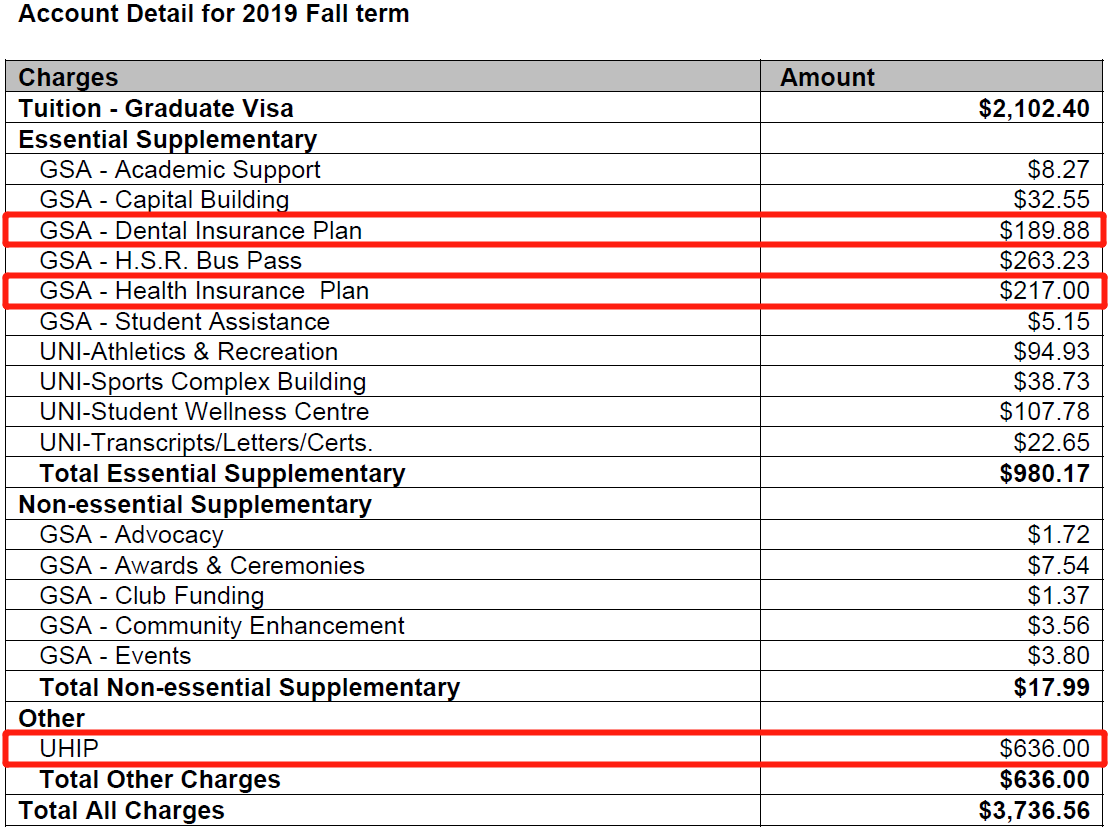
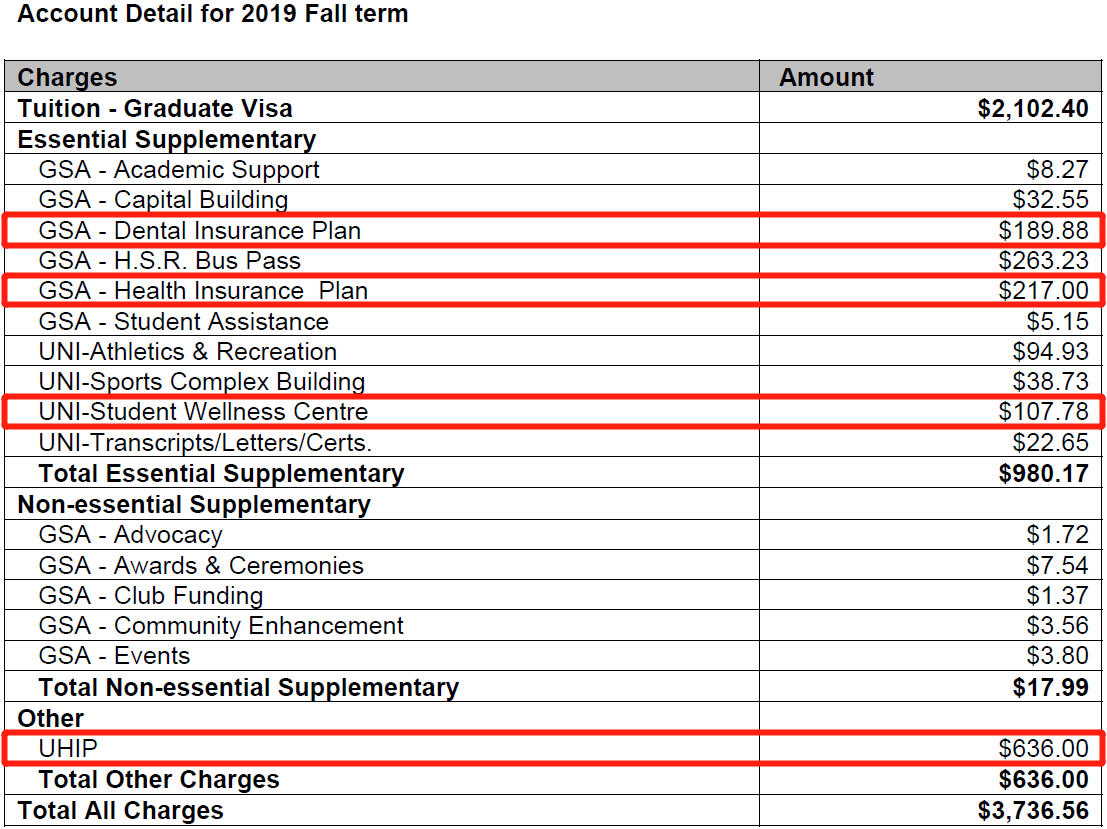
修改各个学院的群，增加TA具体扣税数目，修改牙医保险数额，增加加拿大官方天气App，修改体育馆费用，增加杂费

diff --git a/docs/KanBingYuBaoXian.rst b/docs/KanBingYuBaoXian.rst
@@ -44,13 +44,13 @@
 
 3. GSA Dental Insurance Plan（不包括MBA学生）
 
-- GSA Dental Insurance Plan提供牙医保险，年费$170（2017年）。包括洗牙、补牙等项目。
+- GSA Dental Insurance Plan提供牙医保险，年费$189.88（2019年）。包括洗牙、补牙等项目。
 - 网址： http://studentcare.ca/View.aspx?locale=en&uid=McMasterUniversity_Dental_Test2&random=538
 - GSA Dental Insurance Plan每自然年额度$750（不是学年）。
 
 4. CUPE Dental Plan
 
-- CUPE工会提供牙医保险，目前年费$115.56（2017年）。https://cupe3906.org/tas-unit-1/dental-plan/ 。CUPE Dental Plan仅覆盖以下人群：
+- CUPE工会提供牙医保险，目前年费$125.00（2019年）。https://cupe3906.org/tas-unit-1/dental-plan/ 。CUPE Dental Plan仅覆盖以下人群：
 
   - Unit 1: Teaching Assistants (TAs) and Research Assistants in lieu (RAs in lieu)
   - Unit 2: Sessional Faculty, MELD Sessional Faculty, and Hourly Rated Sessional Music Faculty
@@ -61,7 +61,7 @@
   - 此外有CUPE Dental Plan的Unit 1的学生可以从UHIP中申请rebate保费$200（2017年）。https://cupe3906.org/tas-unit-1/uhip-rebate-unit-1/ ，填写表格后交到表格上的地址，并让工作人员再次检查一下表格。
   - CUPE Dental Plan每自然年额度$1000（不是学年）。但不享受GSA dental plan的学生折扣优惠。
   - 每两年有$250的Health Care Spending Account（HCSA），可用于眼镜报销和$50验光报销。https://cupe3906.org/tas-unit-1/unit-1-benefits/
-- 家属的牙医保险：在下面相应网页里搜索关键词“spouse”。
+- 家属的牙医保险：在下面相应网页里搜索关键词“spouse”或“family”。
 
   - Unit 1: https://cupe3906.org/tas-unit-1/dental-plan/
   - Unit 2: https://cupe3906.org/sessionals-unit-2/unit-2-dental-coverage/
@@ -88,7 +88,7 @@
 
   A. Student Wellness Centre
 
-  - 类似于国内高校的小诊所。但不能处理牙齿相关的事物。
+  - 类似于国内高校的小诊所。但不能处理牙齿相关的事物。由于绝大多数研究生的杂费里已经交了100多刀的Student Wellness Centre的费用，所有大家有小病小恙还是应该优先考虑去校医院看。
   - https://wellness.mcmaster.ca/
   - 看病前需要去按网站上说的方法预约医生。如果预约后决定取消，一定打电话取消，否则会收$50~100的罚款。
   - 注意：校医院不是学校南门的“McMaster Children's Hospital”！那是McMaster医学院的附属儿童医院，只能给儿童看病。

diff --git a/docs/JiangXueJin.rst b/docs/JiangXueJin.rst
@@ -9,9 +9,9 @@ Teaching Assistant与Research Assistant
 1. Teaching Assistant（TA）：助教
 
 - Rate（2018年）：$43.63/hour
-- 如果大家offer上写的TA时间是130小时或130+3小时，则是Half TA，意思就是助教只在一个term（学期）上完。大概税前的工资总数在$5800左右。
+- 如果大家offer上写的TA时间是130小时或130+3小时，则是Half TA，意思就是助教只在一个term（学期）上完。大概税前的工资总数在$5802.79左右。
 - 如果大家offer上写的TA时间是260小时，则是Full TA，那么就需要带2门课的助教。如果是这种情况，大家在选助教的时候尽量把两门课分别放在term1和term2，这样不但减轻工作压力以及对学习的影响，还可能避免一年内因收入过高而征更高的税。
-- 由于TA属于Employment，算是学校的一个临时的员工（staff）。所以，所拿的工资需要交各种税还有牙医保险。因而拿到手的钱比预想的要稍微少一些，大概少10%多一点。TA工资的来源是学校的课程预算，学校在开一门课后，就会计算出该课程任课老师的工资，以及需要多少学生来带TA。
+- 由于TA属于Employment，算是学校的一个临时的员工（staff）。所以，所拿的工资需要交各种税（一共大概$145.04），CUPE1 Dues（可以理解为CUPE工会会员费，一共大概610.16）还有牙医保险。因而拿到手的钱比预想的要稍微少一些，大概少15%（大约$880）。TA工资的来源是学校的课程预算，学校在开一门课后，就会计算出该课程任课老师的工资，以及需要多少学生来带TA。
 
 2. Research Assistant（RA）：助研
 

diff --git a/docs/GeGeXueYuanDeQun.rst b/docs/GeGeXueYuanDeQun.rst
@@ -12,15 +12,11 @@
 
 1. Engineering
 
-- ITB（CAS+ECE+CSE）
+- ITB（CAS+ECE）
 
-  - ITB总群
-  
-    - 11~18级 QQ群：237168063（备注导师入群），微信群：加入QQ群后，联系群管理员
-    - 19级 QQ群：549401754，微信群：加入QQ群后，联系群管理员
-  - Computational Science & Engineering
+  - 11~18级 QQ群：237168063（备注导师入群），微信群：加入QQ群后，联系群管理员
+  - 19级 QQ群：549401754，微信群：加入QQ群后，联系群管理员
 
-    - QQ群：225053068
 - JHE（Civil+EngPhys+MSE+ME）
 
   - JHE总群
@@ -74,9 +70,15 @@
 
 4. Science
 
+- Science总群
+
+  - QQ群：439805669，微信群：加入QQ群后，联系群管理员
 - Mathematics & Statistics & MFM
 
-  - QQ群：887137976，微信群：请联系18-Stat-王晓昌
+  - QQ群：887137976，微信群：加入QQ群后，联系群管理员
+- Computational Science & Engineering
+
+    - QQ群：225053068
 
 5. 跨学院的群
 
@@ -106,7 +108,6 @@ McMaster常见学院专业及简称
   - Materials Science & Engineering：MSE
   - Mechanical Engineering：ME
   - Biomedical Engineering：BME
-  - Computational Science & Engineering：CSE
   - W Booth School of Engineering Practice and Technology：SEPT
 
     - Engineering Design：MED
@@ -141,6 +142,7 @@ McMaster常见学院专业及简称
   - Biochemistry & Biomedical Sciences：biochem
   - Biology：Biology或bio
   - Chemistry & Chemical Biology：chem
+  - Computational Science & Engineering：CSE
   - Geography & Earth Sciences：Geo
   - Interdisciplinary Science：ISCI
   - Kinesiology：kin

diff --git a/docs/SINShenQing.rst b/docs/SINShenQing.rst
@@ -7,8 +7,14 @@ SIN是Social Insurance Number的简称，用于报税、找工。找到工作时
 办理方法： 
 
 1. 下飞机入关时办理，在办完Study Permit的柜台最左边的位置，可以办理SIN number，周一到周五，最晚8:00~8:30就下班了。
-2. 也可以入境后办理，带着你的护照（或驾照）和study permit，去Service Canada就可申请SIN。交通比较方便的office在Hamilton City Hall, Floor 1, 71 Main Street West, Hamilton, Ontario。 http://www.servicecanada.gc.ca/tbsc-fsco/sc-dsp.jsp?rc=ON-SFN&lang=eng
+2. 也可以入境后办理，带着你的护照（或驾照）和study permit，去Service Canada就可申请SIN。交通比较方便的office在Hamilton City Hall, Floor 1, 71 Main Street West, Hamilton, Ontario。 http://www.servicecanada.gc.ca/tbsc-fsco/sc-dsp.jsp?rc=ON-SFN&lang=eng 。如果这里不能去，也可以去山上：http://www.servicecanada.gc.ca/tbsc-fsco/sc-dsp.jsp?rc=3343&lang=eng
 
 注：study permit上必须有“may accept employment”或“may work” in Canada等类似语句，否则不可以办理SIN。
 
 更多地址看查Service Canada网站 http://www.servicecanada.gc.ca/cgi-bin/sc-srch.cgi?ln=eng 
+
+.. admonition:: 本页作者
+   
+   - 陆定维老师
+   - 17-CAS-赵伟
+   - 19-Engphys-谢景熙

diff --git a/docs/XueFei.rst b/docs/XueFei.rst
@@ -7,7 +7,8 @@
 -----------------------------------------------------------------
 - 各program的学费可以查这里
 
-  - http://student-accounts.mcmaster.ca/tuition-fees/#tab-content-graduate
+  - 学费（Tuition Fees）：http://student-accounts.mcmaster.ca/tuition-fees/#tab-content-graduate
+  - 杂费（Supplementary Fees）：https://student-accounts.mcmaster.ca/tuition-fees/supplementary-fees-2/#tab-content-graduate
   - 从2018年9月开始，国际学生中的博士学生的学费降至和Canada本地学生一样，大家的offer上依然写的是未降之前的费用，具体数额需要等八九月份通知。https://gs.mcmaster.ca/academic-services/international-phd-tuition-fees
 - 对于2019 Fall入学的新生，付学费截止日期是9月25日。如果学费没交齐，学校在9月30日会罚$75滞纳金并对尚未交齐的部分按每月1.2%收利息。
 

diff --git a/docs/TiYuGuan.rst b/docs/TiYuGuan.rst
@@ -1,6 +1,6 @@
 体育馆
 ============================
-学校的体育馆大楼叫“David Braley Athletic Centre”。绝大多数学生的杂费里每年包括了大约$40的Sports Complex Building Fee（或其它名称）。这样体育馆的大部分设施都可以免费使用。希望大家在学习之余好好利用体育馆的资源，强身健体。
+学校的体育馆大楼叫“David Braley Athletic Centre”。绝大多数学生的杂费里每年包括了130多刀的体育馆和相关设施服务的费用。这样体育馆的大部分设施都不需要再额外付费使用。希望大家在学习之余好好利用体育馆的资源，强身健体。
 
 .. image:: /resource/TiYuGuan/TiYuGuan_fee.png
    :align: center

diff --git a/docs/QiTAShengHuoJingYanHuiZong.rst b/docs/QiTAShengHuoJingYanHuiZong.rst
@@ -128,6 +128,14 @@ Hamilton：
 
 大家最好把上面的其中一种随身携带。
 
+加拿大政府官方天气手机App —— WeatherCAN
+--------------------------------------------------------------------------------------------------
+- 官网：https://www.canada.ca/en/environment-climate-change/services/weather-general-tools-resources/weathercan.html
+- 手机App：
+
+  - iOS：https://apps.apple.com/ca/app/id1334221563
+  - Android：https://play.google.com/store/apps/details?id=ca.gc.ec.weather_app_android.ops
+
 .. admonition:: 本页作者
 
    - 17-CAS-赵伟
